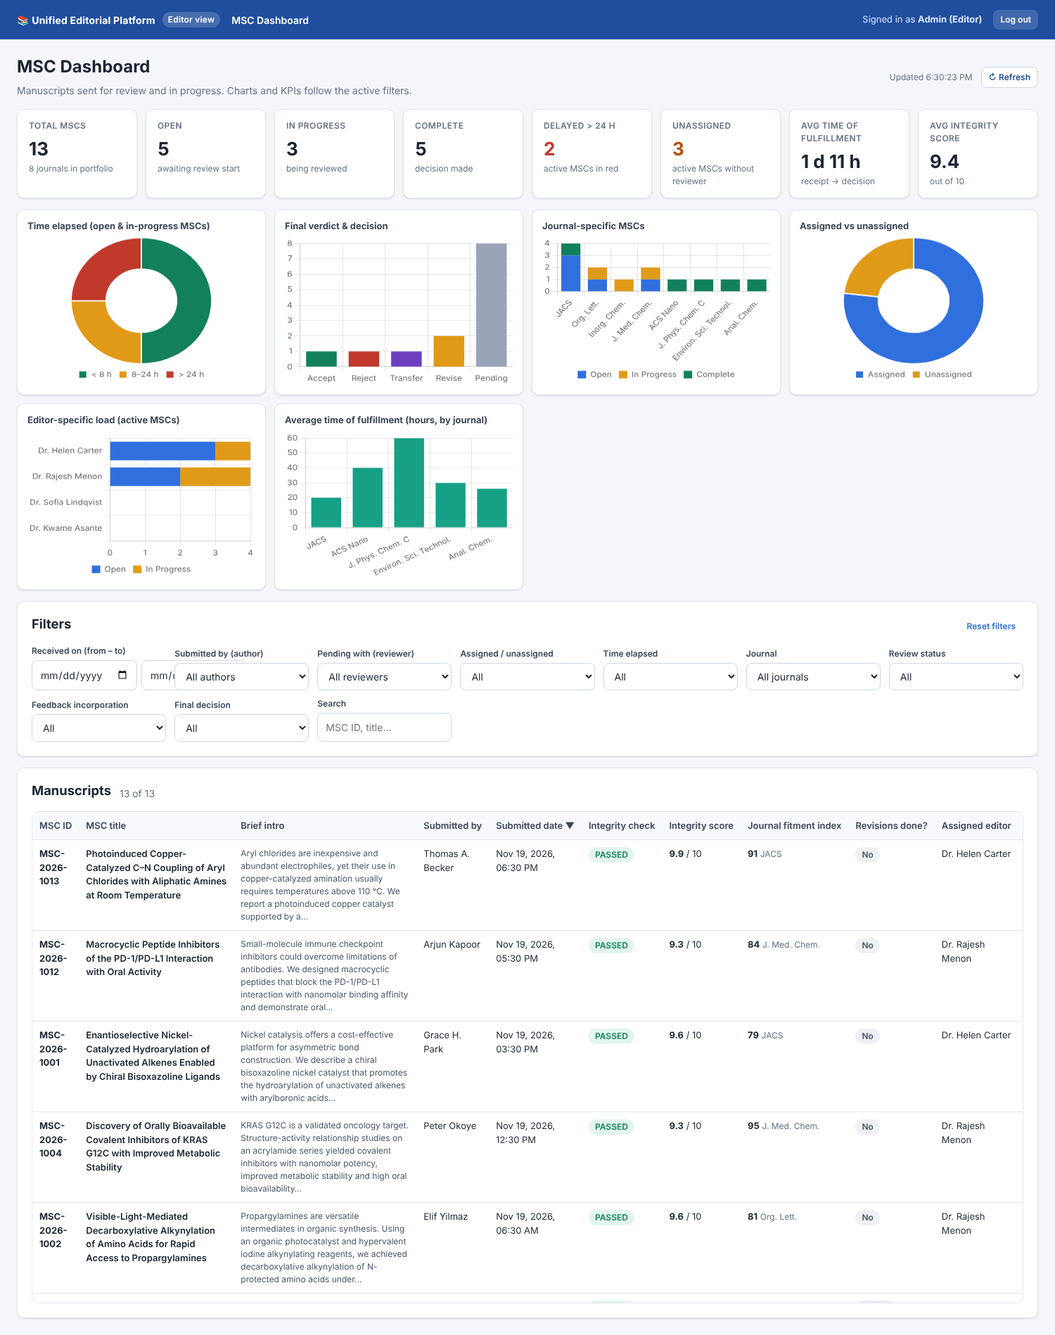
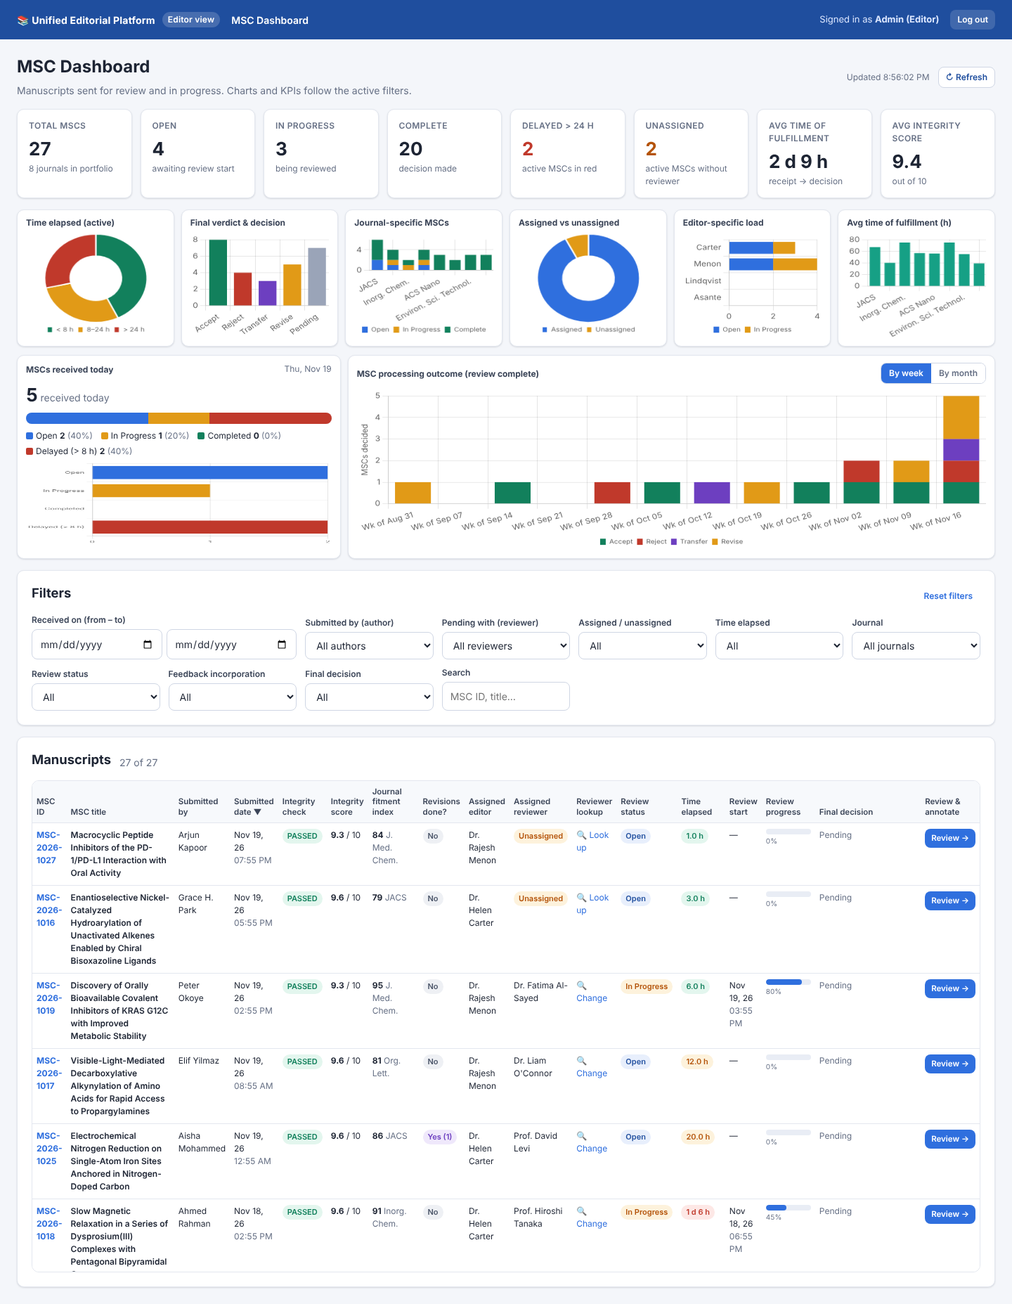
Dashboard: compact chart row, today and weekly/monthly charts, table fits
- Six summary charts shrunk to fit in one row
- New 'MSCs received today' chart with status progress bar
  (Open, In Progress, Completed, Delayed)
- New stacked bar chart of review-complete outcomes by week / month,
  with 15 historical demo MSCs seeded for it
- Refresh reloads data, redraws charts and table, and clears filters
- Brief intro column removed (kept as title tooltip); table compacted
  to avoid horizontal scrolling
- MSC ID links to the review page when the review is open

Claude-Session: https://claude.ai/code/session_013UyawhkpHyUV4Zq6HohUef

diff --git a/public/js/dashboard.js b/public/js/dashboard.js
@@ -62,6 +62,12 @@
     return `<span class="pill ${cls}">${m.finalDecision}${extra}</span>${m.feedbackStatus ? `<div class="muted small">Feedback: ${m.feedbackStatus}</div>` : ''}`;
   }
 
+  function fmtDateShort(iso) {
+    if (!iso) return '—';
+    const d = new Date(iso);
+    return `${d.toLocaleDateString(undefined, { day: '2-digit', month: 'short', year: '2-digit' })}<br><span class="muted">${d.toLocaleTimeString(undefined, { hour: '2-digit', minute: '2-digit' })}</span>`;
+  }
+
   function renderTable(rows) {
     const k = sort.key;
     rows.sort((a, b) => {
@@ -73,16 +79,15 @@
     });
     $('countLabel').textContent = `${rows.length} of ${data.mscs.length}`;
     const tb = document.querySelector('#mscTable tbody');
-    if (!rows.length) { tb.innerHTML = '<tr><td colspan="18" class="muted" style="text-align:center;padding:30px">No manuscripts match the filters.</td></tr>'; return; }
+    if (!rows.length) { tb.innerHTML = '<tr><td colspan="17" class="muted" style="text-align:center;padding:30px">No manuscripts match the filters.</td></tr>'; return; }
     tb.innerHTML = rows.map(m => {
       const active = m.reviewStatus === 'Open' || m.reviewStatus === 'In Progress';
       const j = journals.find(x => x.id === m.journalId);
       return `<tr>
-        <td><b>${esc(m.id)}</b></td>
-        <td class="title-cell">${esc(m.title)}</td>
-        <td class="intro-cell">${esc(m.intro)}</td>
+        <td>${active ? `<a class="msc-link" href="/review/${encodeURIComponent(m.id)}" title="Open the MSC review &amp; annotation page">${esc(m.id)}</a>` : `<span class="msc-id" title="Review complete">${esc(m.id)}</span>`}</td>
+        <td class="title-cell" title="${esc(m.intro)}">${esc(m.title)}</td>
         <td>${esc(m.authorName)}</td>
-        <td>${fmtDate(m.submittedAt)}</td>
+        <td>${fmtDateShort(m.submittedAt)}</td>
         <td><span class="pill ${m.integrityPassed ? 'green' : 'red'}">${m.integrityPassed ? 'PASSED' : 'FAILED'}</span></td>
         <td><b>${m.integrityScore}</b> / 10</td>
         <td><b>${m.fitmentIndex ?? '—'}</b> <span class="muted small">${esc(j ? j.shortName : m.journalId)}</span>
@@ -90,13 +95,13 @@
         <td>${m.revisions ? `<span class="pill violet">Yes (${m.revisions})</span>` : '<span class="pill grey">No</span>'}</td>
         <td>${esc(m.assignedEditor || '—')}</td>
         <td>${m.assignedReviewer ? esc(m.assignedReviewer) : '<span class="pill amber">Unassigned</span>'}</td>
-        <td>${active ? `<a href="#" data-lookup="${esc(m.id)}">🔍 ${m.assignedReviewer ? 'Change' : 'Look up'} reviewer</a>` : '<span class="muted">—</span>'}</td>
+        <td>${active ? `<a href="#" data-lookup="${esc(m.id)}">🔍 ${m.assignedReviewer ? 'Change' : 'Look up'}</a>` : '<span class="muted">—</span>'}</td>
         <td>${statusPill(m.reviewStatus)}</td>
         <td><span class="pill ${m.elapsedBand}" title="${m.reviewStatus === 'Complete' ? 'Time from receipt to decision' : 'Time since receipt'}">${fmtElapsed(m.elapsedHours)}</span></td>
-        <td>${fmtDate(m.reviewStartAt)}</td>
+        <td>${fmtDateShort(m.reviewStartAt)}</td>
         <td><div class="progress"><div class="bar"><span style="width:${m.reviewProgress}%;background:${m.reviewProgress >= 100 ? COLORS.green : COLORS.blue}"></span></div><small>${m.reviewProgress}%</small></div></td>
         <td>${decisionCell(m)}</td>
-        <td>${active ? `<a class="btn small" href="/review/${encodeURIComponent(m.id)}">Review &amp; annotate →</a>` : '<span class="btn small disabled" title="Review is complete">Review closed</span>'}</td>
+        <td>${active ? `<a class="btn small" href="/review/${encodeURIComponent(m.id)}">Review →</a>` : '<span class="btn small disabled" title="Review is complete">Closed</span>'}</td>
       </tr>`;
     }).join('');
     tb.querySelectorAll('[data-lookup]').forEach(a => a.addEventListener('click', e => { e.preventDefault(); openModal(a.dataset.lookup); }));
@@ -126,7 +131,7 @@
     if (charts[id]) { charts[id].data = config.data; charts[id].update(); return; }
     charts[id] = new Chart(document.getElementById(id), {
       ...config,
-      options: Object.assign({ responsive: true, maintainAspectRatio: false, plugins: { legend: { position: 'bottom', labels: { boxWidth: 12 } } } }, config.options || {})
+      options: Object.assign({ responsive: true, maintainAspectRatio: false, plugins: { legend: { position: 'bottom', labels: { boxWidth: 8, font: { size: 10 }, padding: 6 } } } }, config.options || {})
     });
   }
 
@@ -160,7 +165,7 @@
     });
     chart('chEditor', {
       type: 'bar',
-      data: { labels: data.editors.map(e => e.name), datasets: [
+      data: { labels: data.editors.map(e => e.name.replace(/^Dr\.\s*/, '').split(' ').pop()), datasets: [
         { label: 'Open', backgroundColor: COLORS.blue, data: data.editors.map(e => rows.filter(m => m.assignedEditorId === e.id && m.reviewStatus === 'Open').length) },
         { label: 'In Progress', backgroundColor: COLORS.amber, data: data.editors.map(e => rows.filter(m => m.assignedEditorId === e.id && m.reviewStatus === 'In Progress').length) }
       ] },
@@ -175,23 +180,97 @@
     });
   }
 
+  // ----- received today -----
+  const TODAY_CATS = [
+    ['Open', COLORS.blue, m => m.reviewStatus === 'Open' && m.elapsedBand === 'green'],
+    ['In Progress', COLORS.amber, m => m.reviewStatus === 'In Progress' && m.elapsedBand === 'green'],
+    ['Completed', COLORS.green, m => m.reviewStatus === 'Complete'],
+    ['Delayed (> 8 h)', COLORS.red, m => m.reviewStatus !== 'Complete' && m.elapsedBand !== 'green']
+  ];
+  function renderToday(rows) {
+    const today = new Date().toDateString();
+    const list = rows.filter(m => new Date(m.submittedAt).toDateString() === today);
+    const counts = TODAY_CATS.map(([, , fn]) => list.filter(fn).length);
+    $('todayDate').textContent = new Date().toLocaleDateString(undefined, { weekday: 'short', day: '2-digit', month: 'short' });
+    $('todayTotal').textContent = list.length;
+    $('todayBar').innerHTML = list.length
+      ? TODAY_CATS.map(([l, c], i) => counts[i] ? `<span title="${l}: ${counts[i]}" style="width:${(counts[i] / list.length) * 100}%;background:${c}"></span>` : '').join('')
+      : '';
+    $('todayLegend').innerHTML = TODAY_CATS.map(([l, c], i) => `<span><i style="background:${c}"></i>${l} <b>${counts[i]}</b>${list.length ? ` <span class="muted">(${Math.round((counts[i] / list.length) * 100)}%)</span>` : ''}</span>`).join('');
+    chart('chToday', {
+      type: 'bar',
+      data: { labels: TODAY_CATS.map(c => c[0]), datasets: [{ label: 'MSCs', data: counts, backgroundColor: TODAY_CATS.map(c => c[1]) }] },
+      options: { indexAxis: 'y', plugins: { legend: { display: false } }, scales: { x: { beginAtZero: true, ticks: { precision: 0, font: { size: 11 } } }, y: { ticks: { font: { size: 11 } } } } }
+    });
+  }
+
+  // ----- processing outcome by week / month -----
+  let period = 'week';
+  function bucketStart(date) {
+    const d = new Date(date);
+    d.setHours(0, 0, 0, 0);
+    if (period === 'month') { d.setDate(1); return d; }
+    const day = (d.getDay() + 6) % 7; // Monday = 0
+    d.setDate(d.getDate() - day);
+    return d;
+  }
+  function renderPeriod(rows) {
+    const done = rows.filter(m => m.reviewStatus === 'Complete' && m.finalDecision && m.completedAt);
+    const count = period === 'week' ? 12 : 6;
+    const buckets = [];
+    let cur = bucketStart(new Date());
+    for (let i = 0; i < count; i++) {
+      buckets.unshift(new Date(cur));
+      if (period === 'week') cur.setDate(cur.getDate() - 7); else cur.setMonth(cur.getMonth() - 1);
+    }
+    const label = d => period === 'week'
+      ? `Wk of ${d.toLocaleDateString(undefined, { day: '2-digit', month: 'short' })}`
+      : d.toLocaleDateString(undefined, { month: 'short', year: 'numeric' });
+    const decisions = ['Accept', 'Reject', 'Transfer', 'Revise'];
+    chart('chPeriod', {
+      type: 'bar',
+      data: {
+        labels: buckets.map(label),
+        datasets: decisions.map(dec => ({
+          label: dec,
+          backgroundColor: DECISION_COLORS[dec],
+          data: buckets.map(b => done.filter(m => m.finalDecision === dec && bucketStart(m.completedAt).getTime() === b.getTime()).length)
+        }))
+      },
+      options: { scales: { x: { stacked: true }, y: { stacked: true, beginAtZero: true, ticks: { precision: 0 }, title: { display: true, text: 'MSCs decided' } } } }
+    });
+  }
+  document.querySelectorAll('#periodSeg button').forEach(b => b.addEventListener('click', () => {
+    period = b.dataset.period;
+    document.querySelectorAll('#periodSeg button').forEach(x => x.classList.toggle('active', x === b));
+    renderPeriod(filtered());
+  }));
+
   function render() {
     const rows = filtered();
     renderKpis(rows);
     renderCharts(rows);
+    renderToday(rows);
+    renderPeriod(rows);
     renderTable(rows);
   }
 
-  document.querySelectorAll('#filters input, #filters select').forEach(el => el.addEventListener(el.tagName === 'INPUT' && el.type === 'text' ? 'input' : 'change', render));
-  $('resetFilters').addEventListener('click', () => {
+  function clearFilters() {
     document.querySelectorAll('#filters input, #filters select').forEach(el => { el.value = ''; });
-    render();
-  });
+  }
+
+  document.querySelectorAll('#filters input, #filters select').forEach(el => el.addEventListener(el.tagName === 'INPUT' && el.type === 'text' ? 'input' : 'change', render));
+  $('resetFilters').addEventListener('click', () => { clearFilters(); render(); });
   document.querySelectorAll('#mscTable th[data-sort]').forEach(th => th.addEventListener('click', () => {
     sort = { key: th.dataset.sort, dir: sort.key === th.dataset.sort ? -sort.dir : 1 };
     render();
   }));
-  $('refreshBtn').addEventListener('click', load);
+  $('refreshBtn').addEventListener('click', async () => {
+    clearFilters();
+    sort = { key: 'submittedAt', dir: -1 };
+    await load();
+    toast('Dashboard refreshed and filters cleared');
+  });
 
   // ----- reviewer selection modal -----
   let modalMsc = null; let selected = null;

diff --git a/public/css/app.css b/public/css/app.css
@@ -122,6 +122,16 @@ button.small, .btn.small { padding: 5px 10px; font-size: 12px; }
 .table-wrap { overflow: auto; border: 1px solid var(--line); border-radius: var(--radius); background: #fff; max-height: 70vh; }
 table.data { border-collapse: separate; border-spacing: 0; width: 100%; font-size: 13px; }
 table.data th { position: sticky; top: 0; background: #f7f9fc; text-align: left; font-weight: 600; color: #3b4558; padding: 10px; border-bottom: 1px solid var(--line); white-space: nowrap; z-index: 1; cursor: pointer; user-select: none; }
+#mscTable { font-size: 12px; }
+#mscTable th { white-space: normal; padding: 8px 6px; font-size: 11.5px; line-height: 1.25; vertical-align: bottom; }
+#mscTable td { padding: 8px 6px; }
+#mscTable td.title-cell { min-width: 0; max-width: none; width: 18%; }
+#mscTable .progress { width: 64px; }
+#mscTable .pill { padding: 2px 7px; font-size: 11px; }
+#mscTable .btn.small { padding: 4px 8px; font-size: 11.5px; white-space: nowrap; }
+.dash-table-wrap { overflow-x: auto; }
+a.msc-link { font-weight: 700; }
+span.msc-id { font-weight: 700; color: var(--ink); }
 table.data th.nosort { cursor: default; }
 table.data td { padding: 10px; border-bottom: 1px solid var(--line); vertical-align: top; }
 table.data tr:hover td { background: #fafbff; }
@@ -137,10 +147,25 @@ td.intro-cell { min-width: 260px; max-width: 320px; color: #4a5468; font-size: 1
 .kpi .label { color: var(--muted); font-size: 12px; font-weight: 600; text-transform: uppercase; letter-spacing: .4px; }
 .kpi .value { font-size: 26px; font-weight: 700; margin-top: 4px; }
 .kpi .sub { font-size: 12px; color: var(--muted); }
-.charts { display: grid; grid-template-columns: repeat(auto-fit, minmax(300px, 1fr)); gap: 12px; margin-bottom: 16px; }
-.chart-card { background: #fff; border: 1px solid var(--line); border-radius: var(--radius); padding: 14px; box-shadow: var(--shadow); }
-.chart-card h3 { font-size: 13px; color: #3b4558; }
-.chart-card canvas { width: 100% !important; height: 210px !important; }
+.charts { display: grid; grid-template-columns: repeat(6, minmax(0, 1fr)); gap: 10px; margin-bottom: 12px; }
+@media (max-width: 1200px) { .charts { grid-template-columns: repeat(3, minmax(0, 1fr)); } }
+@media (max-width: 700px) { .charts { grid-template-columns: repeat(2, minmax(0, 1fr)); } }
+.charts-2 { display: grid; grid-template-columns: minmax(0, 1fr) minmax(0, 2fr); gap: 10px; margin-bottom: 16px; }
+@media (max-width: 1000px) { .charts-2 { grid-template-columns: 1fr; } }
+.today-total { margin: 8px 0 6px; }
+.today-total b { font-size: 26px; }
+.stackbar { display: flex; height: 16px; border-radius: 99px; overflow: hidden; background: #e9edf5; }
+.stackbar span { height: 100%; transition: width .3s; }
+.stack-legend { display: flex; flex-wrap: wrap; gap: 4px 12px; font-size: 12px; margin: 8px 0 4px; }
+.stack-legend i { display: inline-block; width: 10px; height: 10px; border-radius: 2px; margin-right: 4px; vertical-align: -1px; }
+.seg { display: inline-flex; border: 1px solid #cfd6e4; border-radius: 8px; overflow: hidden; }
+.seg button { background: #fff; color: var(--muted); border-radius: 0; padding: 4px 10px; font-size: 12px; }
+.seg button.active { background: var(--brand-2); color: #fff; }
+.chart-card { background: #fff; border: 1px solid var(--line); border-radius: var(--radius); padding: 10px 12px; box-shadow: var(--shadow); min-width: 0; }
+.chart-card h3 { font-size: 12px; color: #3b4558; white-space: nowrap; overflow: hidden; text-overflow: ellipsis; }
+.chart-card canvas { width: 100% !important; height: 150px !important; }
+.chart-card canvas.short { height: 120px !important; }
+.chart-card canvas.tall { height: 230px !important; margin-top: 8px; }
 .filters { display: grid; grid-template-columns: repeat(auto-fit, minmax(170px, 1fr)); gap: 10px 12px; align-items: end; }
 .filters label { margin: 0 0 4px; font-size: 12px; color: #3b4558; }
 .filters .daterange { display: flex; gap: 6px; }

diff --git a/src/seed.js b/src/seed.js
@@ -232,6 +232,26 @@ const TOPICS = [
   }
 ];
 
+// Historical, review-complete MSCs (spread over ~5 months) so the
+// week/month processing-outcome chart has a meaningful history.
+const ARCHIVE = [
+  [0, 'Cobalt-Catalyzed Hydrosilylation of Terminal Alkenes with Anti-Markovnikov Selectivity', 9, 'Accept', 'RV-1', 70],
+  [3, 'Brain-Penetrant BTK Inhibitors for Multiple Sclerosis', 12, 'Revise', 'RV-4', 55, 'Major'],
+  [4, 'Ultrathin MXene Films for Electromagnetic Interference Shielding', 16, 'Accept', 'RV-5', 48],
+  [5, 'Operando Raman Spectroscopy of Nickel Oxyhydroxide Oxygen Evolution Catalysts', 20, 'Reject', 'RV-6', 90],
+  [6, 'PFAS Removal from Groundwater by Cationic Cyclodextrin Polymers', 25, 'Accept', 'RV-7', 62],
+  [7, 'Single-Cell Metabolomics by Nanoelectrospray Mass Spectrometry', 31, 'Revise', 'RV-8', 40, 'Minor'],
+  [2, 'Luminescent Europium Frameworks for Ratiometric Temperature Sensing', 38, 'Transfer', 'RV-3', 75, null, 'ANALCHEM'],
+  [1, 'Photoredox Deoxygenative Alkylation of Alcohols', 45, 'Accept', 'RV-2', 36],
+  [8, 'Covalent Organic Framework Membranes for Organic Solvent Nanofiltration', 52, 'Reject', 'RV-9', 110],
+  [11, 'Stapled Peptides Targeting the MDM2–p53 Interaction', 66, 'Accept', 'RV-4', 58],
+  [9, 'Copper Single-Atom Catalysts for Electrochemical CO2 Reduction to Ethanol', 80, 'Revise', 'RV-6', 66, 'Minor'],
+  [10, 'Asymmetric Synthesis of Tetrahydroisoquinoline Alkaloids', 95, 'Accept', 'RV-2', 44],
+  [4, 'Stretchable Graphene Sensors for Wearable Sweat Analysis', 110, 'Transfer', 'RV-5', 80, null, 'ANALCHEM'],
+  [6, 'Atmospheric Oxidation of Biogenic Volatile Organic Compounds', 128, 'Accept', 'RV-7', 72],
+  [7, 'Microfluidic Immunoassay for Point-of-Care Troponin Detection', 140, 'Reject', 'RV-8', 50]
+];
+
 async function buildSeed() {
   const now = Date.now();
   const db = {
@@ -247,10 +267,36 @@ async function buildSeed() {
   };
   store.set(db);
 
+  const reports = [];
   for (let i = 0; i < TOPICS.length; i++) {
     const t = TOPICS[i];
     const buffer = await buildManuscriptDocx(spec(t, i));
-    const report = await analyzeManuscript({ buffer, originalName: `${t.journalId}-seed-${i + 1}.docx`, journalId: t.journalId, corpus: [] });
+    reports[i] = await analyzeManuscript({ buffer, originalName: `${t.journalId}-seed-${i + 1}.docx`, journalId: t.journalId, corpus: [] });
+  }
+
+  // Archive first, so the current MSCs get the most recent IDs.
+  ARCHIVE.forEach(([ti, title, daysAgo, type, reviewer, fulfilHours, revisionType, alt]) => {
+    const base = reports[ti];
+    const report = { ...base, meta: { ...base.meta, title }, html: base.html.replace(TOPICS[ti].title, title) };
+    const submitted = now - daysAgo * 24 * H;
+    const msc = service.createMsc({ report, fileName: `${title.slice(0, 40).replace(/[^A-Za-z0-9]+/g, '_')}.docx`, owner: 'seed', seed: true, submittedAt: new Date(submitted).toISOString() });
+    const decidedAt = new Date(submitted + fulfilHours * H).toISOString();
+    Object.assign(msc, {
+      assignedReviewer: reviewer,
+      assignedAt: new Date(submitted + 1 * H).toISOString(),
+      reviewStatus: 'Complete',
+      reviewStartAt: new Date(submitted + 4 * H).toISOString(),
+      reviewProgress: 100,
+      completedAt: decidedAt,
+      feedbackStatus: type === 'Revise' ? 'In Progress' : null,
+      decision: { type, revisionType: revisionType || null, alternateJournalId: alt || null, summary: `${type} — see reviewer comments.`, decidedAt, decidedBy: reviewer }
+    });
+    msc.decisionHistory.push({ ...msc.decision, version: 1 });
+  });
+
+  for (let i = 0; i < TOPICS.length; i++) {
+    const t = TOPICS[i];
+    const report = reports[i];
     const s = t.state;
     const submitted = now - s.hoursAgo * H;
     const msc = service.createMsc({

diff --git a/public/dashboard.html b/public/dashboard.html
@@ -16,18 +16,34 @@
       </div>
       <div class="spacer"></div>
       <span class="muted small" id="updatedAt"></span>
-      <button class="secondary small" id="refreshBtn">↻ Refresh</button>
+      <button class="secondary small" id="refreshBtn" title="Reload data, refresh all charts and the table, and clear all filters">↻ Refresh</button>
     </div>
 
     <div class="kpis" id="kpis"></div>
 
     <div class="charts">
-      <div class="chart-card"><h3>Time elapsed (open &amp; in-progress MSCs)</h3><canvas id="chElapsed"></canvas></div>
+      <div class="chart-card"><h3>Time elapsed (active)</h3><canvas id="chElapsed"></canvas></div>
       <div class="chart-card"><h3>Final verdict &amp; decision</h3><canvas id="chDecision"></canvas></div>
       <div class="chart-card"><h3>Journal-specific MSCs</h3><canvas id="chJournal"></canvas></div>
       <div class="chart-card"><h3>Assigned vs unassigned</h3><canvas id="chAssigned"></canvas></div>
-      <div class="chart-card"><h3>Editor-specific load (active MSCs)</h3><canvas id="chEditor"></canvas></div>
-      <div class="chart-card"><h3>Average time of fulfillment (hours, by journal)</h3><canvas id="chFulfil"></canvas></div>
+      <div class="chart-card"><h3>Editor-specific load</h3><canvas id="chEditor"></canvas></div>
+      <div class="chart-card"><h3>Avg time of fulfillment (h)</h3><canvas id="chFulfil"></canvas></div>
+    </div>
+
+    <div class="charts-2">
+      <div class="chart-card">
+        <div class="row"><h3 style="margin:0">MSCs received today</h3><span class="spacer"></span><span class="muted small" id="todayDate"></span></div>
+        <div class="today-total"><b id="todayTotal">0</b> <span class="muted">received today</span></div>
+        <div class="stackbar" id="todayBar"></div>
+        <div class="stack-legend" id="todayLegend"></div>
+        <canvas id="chToday" class="short"></canvas>
+      </div>
+      <div class="chart-card">
+        <div class="row"><h3 style="margin:0">MSC processing outcome (review complete)</h3><span class="spacer"></span>
+          <div class="seg" id="periodSeg"><button class="active" data-period="week">By week</button><button data-period="month">By month</button></div>
+        </div>
+        <canvas id="chPeriod" class="tall"></canvas>
+      </div>
     </div>
 
     <div class="card">
@@ -48,12 +64,11 @@
 
     <div class="card">
       <div class="row" style="margin-bottom:10px"><h2>Manuscripts</h2><span class="muted" id="countLabel"></span></div>
-      <div class="table-wrap">
+      <div class="table-wrap dash-table-wrap">
         <table class="data" id="mscTable">
           <thead><tr>
             <th data-sort="id">MSC ID</th>
             <th data-sort="title">MSC title</th>
-            <th class="nosort">Brief intro</th>
             <th data-sort="authorName">Submitted by</th>
             <th data-sort="submittedAt">Submitted date</th>
             <th data-sort="integrityPassed">Integrity check</th>

diff --git a/README.md b/README.md
@@ -20,7 +20,7 @@ npm start
 
 Open **http://localhost:3000** and log in with **Admin / Admin**. On the login page, choose **Author** or **Editor** to pick the view.
 
-On the first start the app seeds `data/db.json` with 4 editors, 9 reviewers and 12 manuscripts covering every workflow state, so the dashboard and charts have data straight away.
+On the first start the app seeds `data/db.json` with 4 editors, 9 reviewers, 12 current manuscripts covering every workflow state and 15 review-complete manuscripts from the past ~5 months, so the dashboard and charts have data straight away. If you ran an earlier version, run `npm run reset` to pick up the new demo data.
 
 | Command | What it does |
 |---|---|
@@ -93,9 +93,14 @@ To start a demo from a clean slate at any time, use **Manual Deploy → Restart 
 Two or more critical issues cap the score at 5.
 
 ### Editor view: MSC dashboard (`/dashboard`)
-* **Table** with all 17 requested columns: MSC ID, title, brief intro, submitted by, submitted date, integrity check PASSED/FAILED, integrity score, journal fitment index (plus a "better fit" hint), revisions done, assigned editor, assigned reviewer, **reviewer lookup link (modal)**, review status (Open / In Progress / Complete), **time elapsed** colour-coded (green < 8 h, amber 8–24 h, red > 24 h), review start date/time, review progress bar, and a **Review & annotate** link that is only active for Open / In Progress. Final decision is shown as an extra column. Columns are sortable.
+* **Table** with the requested columns: MSC ID (a link to the review page when the review is Open / In Progress), title (the brief intro shows as a tooltip, so the table fits without a horizontal scroll), submitted by, submitted date, integrity check PASSED/FAILED, integrity score, journal fitment index (plus a "better fit" hint), revisions done, assigned editor, assigned reviewer, **reviewer lookup link (modal)**, review status (Open / In Progress / Complete), **time elapsed** colour-coded (green < 8 h, amber 8–24 h, red > 24 h), review start date/time, review progress bar, final decision, and a **Review** button that is only active for Open / In Progress. Columns are sortable.
 * **Filters:** received on (date range), submitted by, pending with (reviewer), assigned/unassigned, time elapsed, journal, review status, feedback incorporation status, final decision, plus free-text search.
-* **KPIs & charts** (Chart.js), recalculated for the active filters: time elapsed, final verdict & decision, journal-specific MSCs, assigned vs unassigned, editor-specific load, average time of fulfillment. KPI tiles show totals, delayed, unassigned, average fulfillment time and average integrity score. Clicking a chart segment applies the matching filter.
+* **KPIs & charts** (Chart.js), recalculated for the active filters:
+  * One compact row of six charts: time elapsed, final verdict & decision, journal-specific MSCs, assigned vs unassigned, editor-specific load, average time of fulfillment. Clicking a chart segment applies the matching filter.
+  * **MSCs received today:** total, a stacked progress bar and a bar chart by Open, In Progress, Completed and Delayed (still active after more than 8 hours).
+  * **MSC processing outcome:** a stacked bar chart of review-complete MSCs by decision outcome (Accept / Reject / Transfer / Revise), switchable between the last 12 weeks and the last 6 months.
+  * KPI tiles show totals, delayed, unassigned, average fulfillment time and average integrity score.
+* **Refresh** reloads the data, redraws every chart and the table, and clears all filters.
 * **Reviewer selection modal:** reviewers are ranked by availability (free capacity vs. active reviews, on-leave status, expertise in the journal's scope, average turnaround). The top available reviewer is marked *Recommended*. Unavailable reviewers can't be selected.
 
 ### MSC review & annotation page (`/review/:id`)
